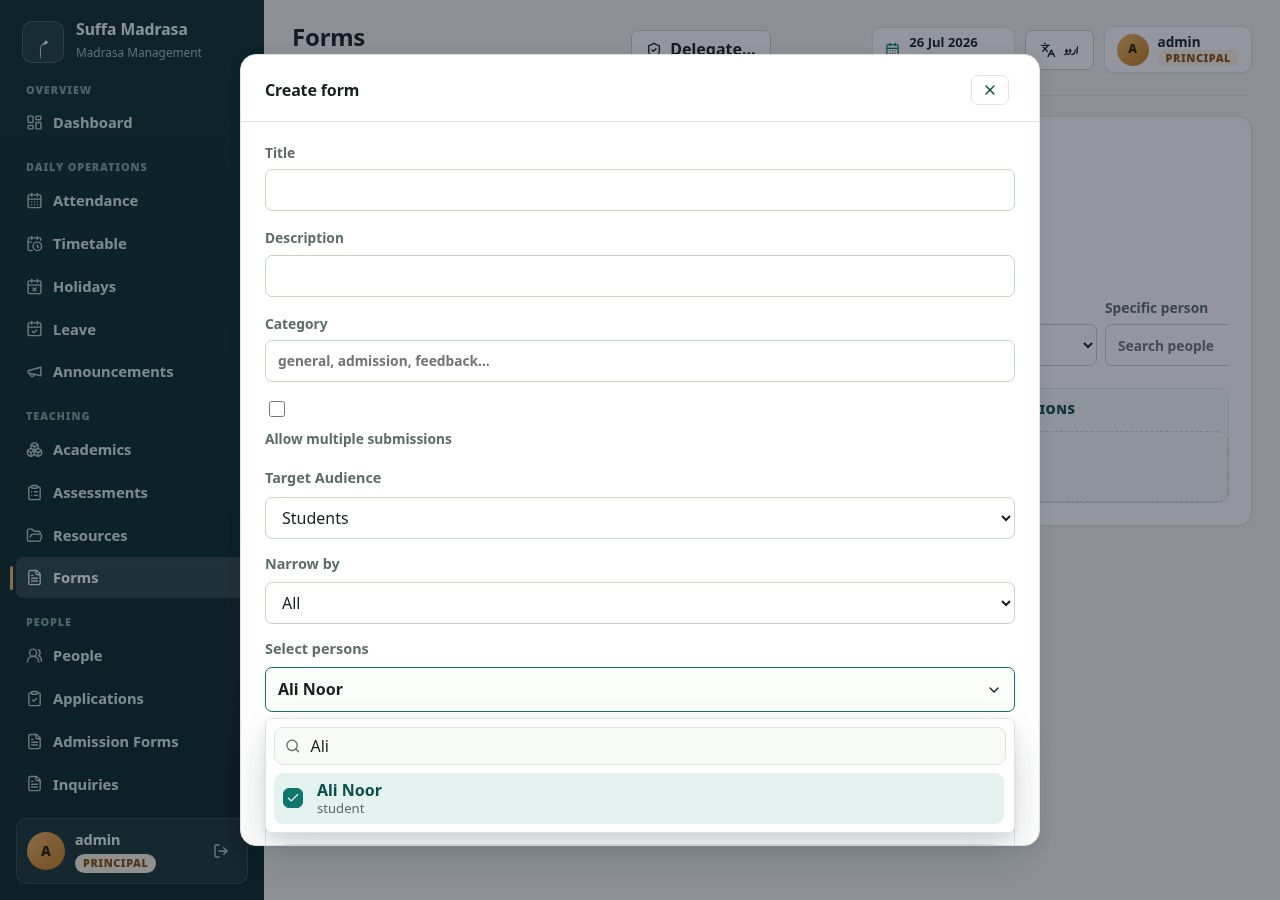
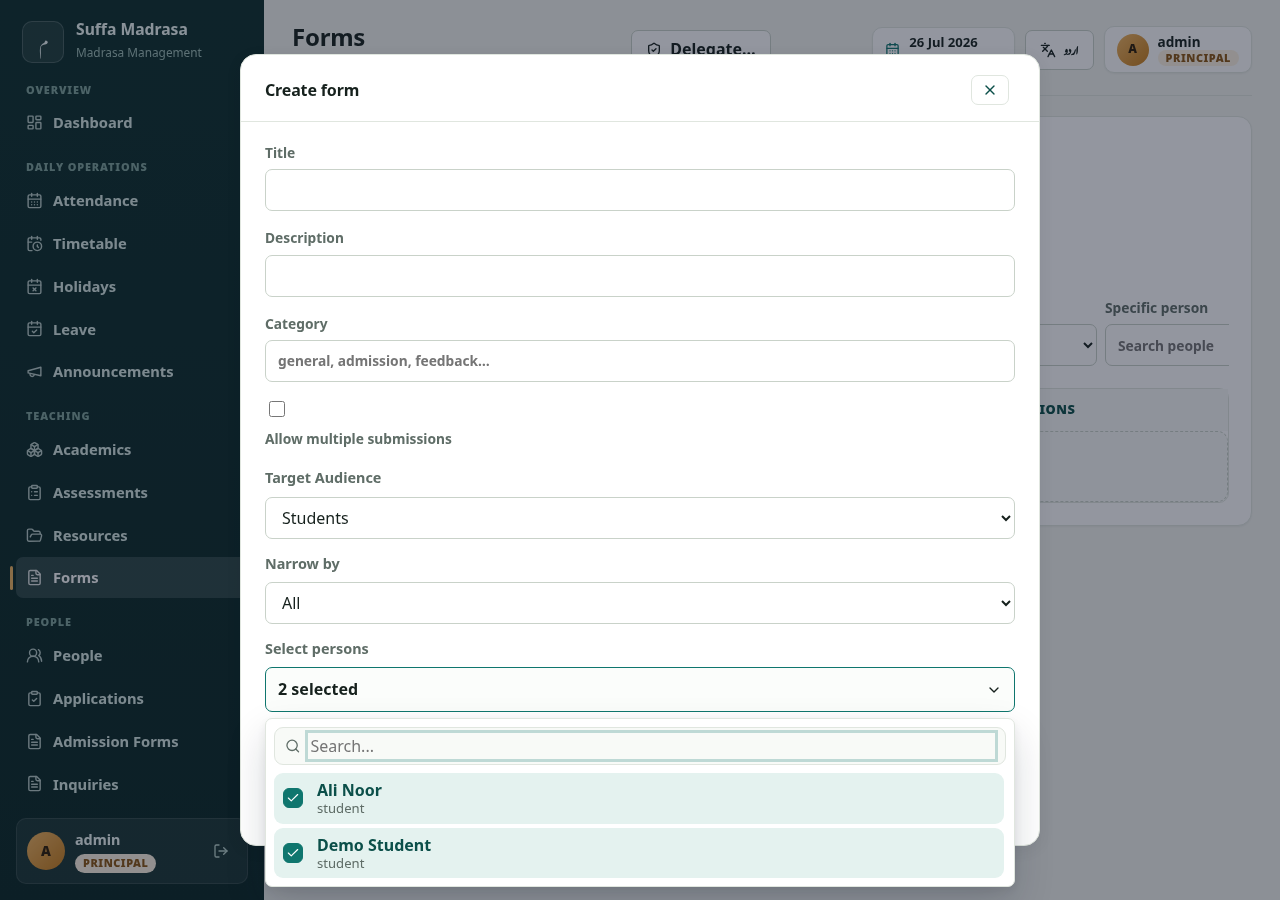
Improve staged audience picker keyboard UX

Changed region(s): [[0.1875, 0.9022, 0.8125, 0.9956], [0.2188, 0.8089, 0.7812, 0.8711], [0.2188, 0.7467, 0.2812, 0.7778]]

diff --git a/app/src/components/StagedAudiencePicker.tsx b/app/src/components/StagedAudiencePicker.tsx
@@ -1,4 +1,4 @@
-import { useCallback, useEffect, useMemo, useRef, useState, type CSSProperties } from "react";
+import { useCallback, useEffect, useMemo, useRef, useState, type CSSProperties, type KeyboardEvent as ReactKeyboardEvent } from "react";
 import { useTranslation } from "react-i18next";
 import { Check, ChevronDown, Search, X } from "lucide-react";
 
@@ -47,6 +47,8 @@ export function StagedAudiencePicker({
   const pickerRef = useRef<HTMLDivElement>(null);
   const triggerRef = useRef<HTMLButtonElement>(null);
   const searchInputRef = useRef<HTMLInputElement>(null);
+  const listboxId = useRef(`people-picker-${crypto.randomUUID()}`);
+  const [activeOptionIndex, setActiveOptionIndex] = useState(0);
 
   const [classes, setClasses] = useState<AcademicClass[]>([]);
   const [sections, setSections] = useState<Record<string, Section[]>>({});
@@ -190,6 +192,10 @@ export function StagedAudiencePicker({
     return true;
   });
 
+  useEffect(() => {
+    setActiveOptionIndex(0);
+  }, [roleMode, searchQuery, selectedClassId, selectedSectionId, narrowMode]);
+
   const togglePerson = (person: SelectedPerson) => {
     const exists = selectedPersons.some((p) => p.id === person.id);
     let next: SelectedPerson[];
@@ -200,6 +206,56 @@ export function StagedAudiencePicker({
     }
     setSelectedPersons(next);
     updateScope(next);
+  };
+
+  const moveActiveOption = (direction: 1 | -1) => {
+    if (filteredPersons.length === 0) return;
+    setActiveOptionIndex((current) => (current + direction + filteredPersons.length) % filteredPersons.length);
+  };
+
+  const handlePeoplePickerKeyDown = (event: ReactKeyboardEvent) => {
+    if (!isPeopleDropdownOpen && (event.key === "ArrowDown" || event.key === "Enter" || event.key === " ")) {
+      event.preventDefault();
+      setIsPeopleDropdownOpen(true);
+      return;
+    }
+    if (!isPeopleDropdownOpen) return;
+    switch (event.key) {
+      case "ArrowDown":
+        event.preventDefault();
+        moveActiveOption(1);
+        break;
+      case "ArrowUp":
+        event.preventDefault();
+        moveActiveOption(-1);
+        break;
+      case "Home":
+        event.preventDefault();
+        setActiveOptionIndex(0);
+        break;
+      case "End":
+        event.preventDefault();
+        setActiveOptionIndex(Math.max(0, filteredPersons.length - 1));
+        break;
+      case "Enter":
+        event.preventDefault();
+        if (filteredPersons[activeOptionIndex]) togglePerson(filteredPersons[activeOptionIndex]);
+        break;
+      case " ":
+        if (event.currentTarget !== searchInputRef.current) {
+          event.preventDefault();
+          if (filteredPersons[activeOptionIndex]) togglePerson(filteredPersons[activeOptionIndex]);
+        }
+        break;
+      case "Escape":
+        event.preventDefault();
+        setIsPeopleDropdownOpen(false);
+        triggerRef.current?.focus();
+        break;
+      case "Tab":
+        setIsPeopleDropdownOpen(false);
+        break;
+    }
   };
 
   const updateScope = (persons: SelectedPerson[]) => {
@@ -304,7 +360,9 @@ export function StagedAudiencePicker({
             className="peopleMultiSelectTrigger"
             aria-haspopup="listbox"
             aria-expanded={isPeopleDropdownOpen}
+            aria-controls={isPeopleDropdownOpen ? listboxId.current : undefined}
             onClick={() => setIsPeopleDropdownOpen((open) => !open)}
+            onKeyDown={handlePeoplePickerKeyDown}
           >
             <span className="peopleMultiSelectSummary">{selectedSummary}</span>
             <ChevronDown size={16} aria-hidden="true" />
@@ -331,25 +389,30 @@ export function StagedAudiencePicker({
                   ref={searchInputRef}
                   type="search"
                   aria-label={t("searchPlaceholder", "Search...")}
+                  aria-controls={listboxId.current}
+                  aria-activedescendant={filteredPersons[activeOptionIndex] ? `${listboxId.current}-${filteredPersons[activeOptionIndex].id}` : undefined}
                   placeholder={t("searchPlaceholder", "Search...")}
                   value={searchQuery}
                   onChange={(e) => setSearchQuery(e.target.value)}
+                  onKeyDown={handlePeoplePickerKeyDown}
                 />
               </div>
 
-              <div className="peopleMultiSelectList" role="listbox" aria-multiselectable="true">
+              <div id={listboxId.current} className="peopleMultiSelectList" role="listbox" aria-multiselectable="true">
                 {isLoading && <p className="peopleMultiSelectState">{t("loadingLabel", "Loading...")}</p>}
                 {!isLoading && filteredPersons.length === 0 && <p className="peopleMultiSelectState">{t("noResults", "No results")}</p>}
-                {!isLoading && filteredPersons.map((person) => {
+                {!isLoading && filteredPersons.map((person, index) => {
                   const selected = selectedPersons.some((p) => p.id === person.id);
                   return (
                     <button
                       key={person.id}
+                      id={`${listboxId.current}-${person.id}`}
                       type="button"
                       role="option"
                       aria-selected={selected}
-                      className={`peopleMultiSelectOption${selected ? " selected" : ""}`}
+                      className={`peopleMultiSelectOption${selected ? " selected" : ""}${index === activeOptionIndex ? " active" : ""}`}
                       onClick={() => togglePerson(person)}
+                      onMouseEnter={() => setActiveOptionIndex(index)}
                     >
                       <span className="peopleMultiSelectCheck">{selected && <Check size={14} />}</span>
                       <span className="peopleMultiSelectPerson">

diff --git a/app/src/styles.css b/app/src/styles.css
@@ -2543,6 +2543,7 @@ html[dir="rtl"] .navGroupLabel {
 
 .peopleMultiSelectOption:hover,
 .peopleMultiSelectOption:focus-visible,
+.peopleMultiSelectOption.active,
 .peopleMultiSelectOption.selected {
   outline: none;
   background: var(--brand-soft);

diff --git a/IMPLEMENTED.md b/IMPLEMENTED.md
@@ -85,6 +85,14 @@ Fresh evidence from this pass:
   "Password" are associated with their inputs. The current visual gate now fills
   those controls with `getByLabel(...)`, which prevents the earlier selector
   ambiguity where the tenant field could be mistaken for the username field.
+- Strengthened ISS3-027's staged audience picker into a keyboard-operable
+  searchable multi-select: the trigger exposes listbox controls, the searchbox
+  keeps `aria-activedescendant`, ArrowUp/ArrowDown/Home/End move the active
+  option, Enter/Space toggles selection, Escape closes cleanly, and selected
+  chips remain visible. Evidence: `test:audience-picker` now selects multiple
+  students entirely from the keyboard on desktop and mobile and refreshes
+  `artifacts/audience-picker/audience-picker-*.png`; production build and the
+  unsafe-type ratchet passed after the change.
 
 ## 2026-07-26 — ISS3 implementation tranche and verification refresh
 
